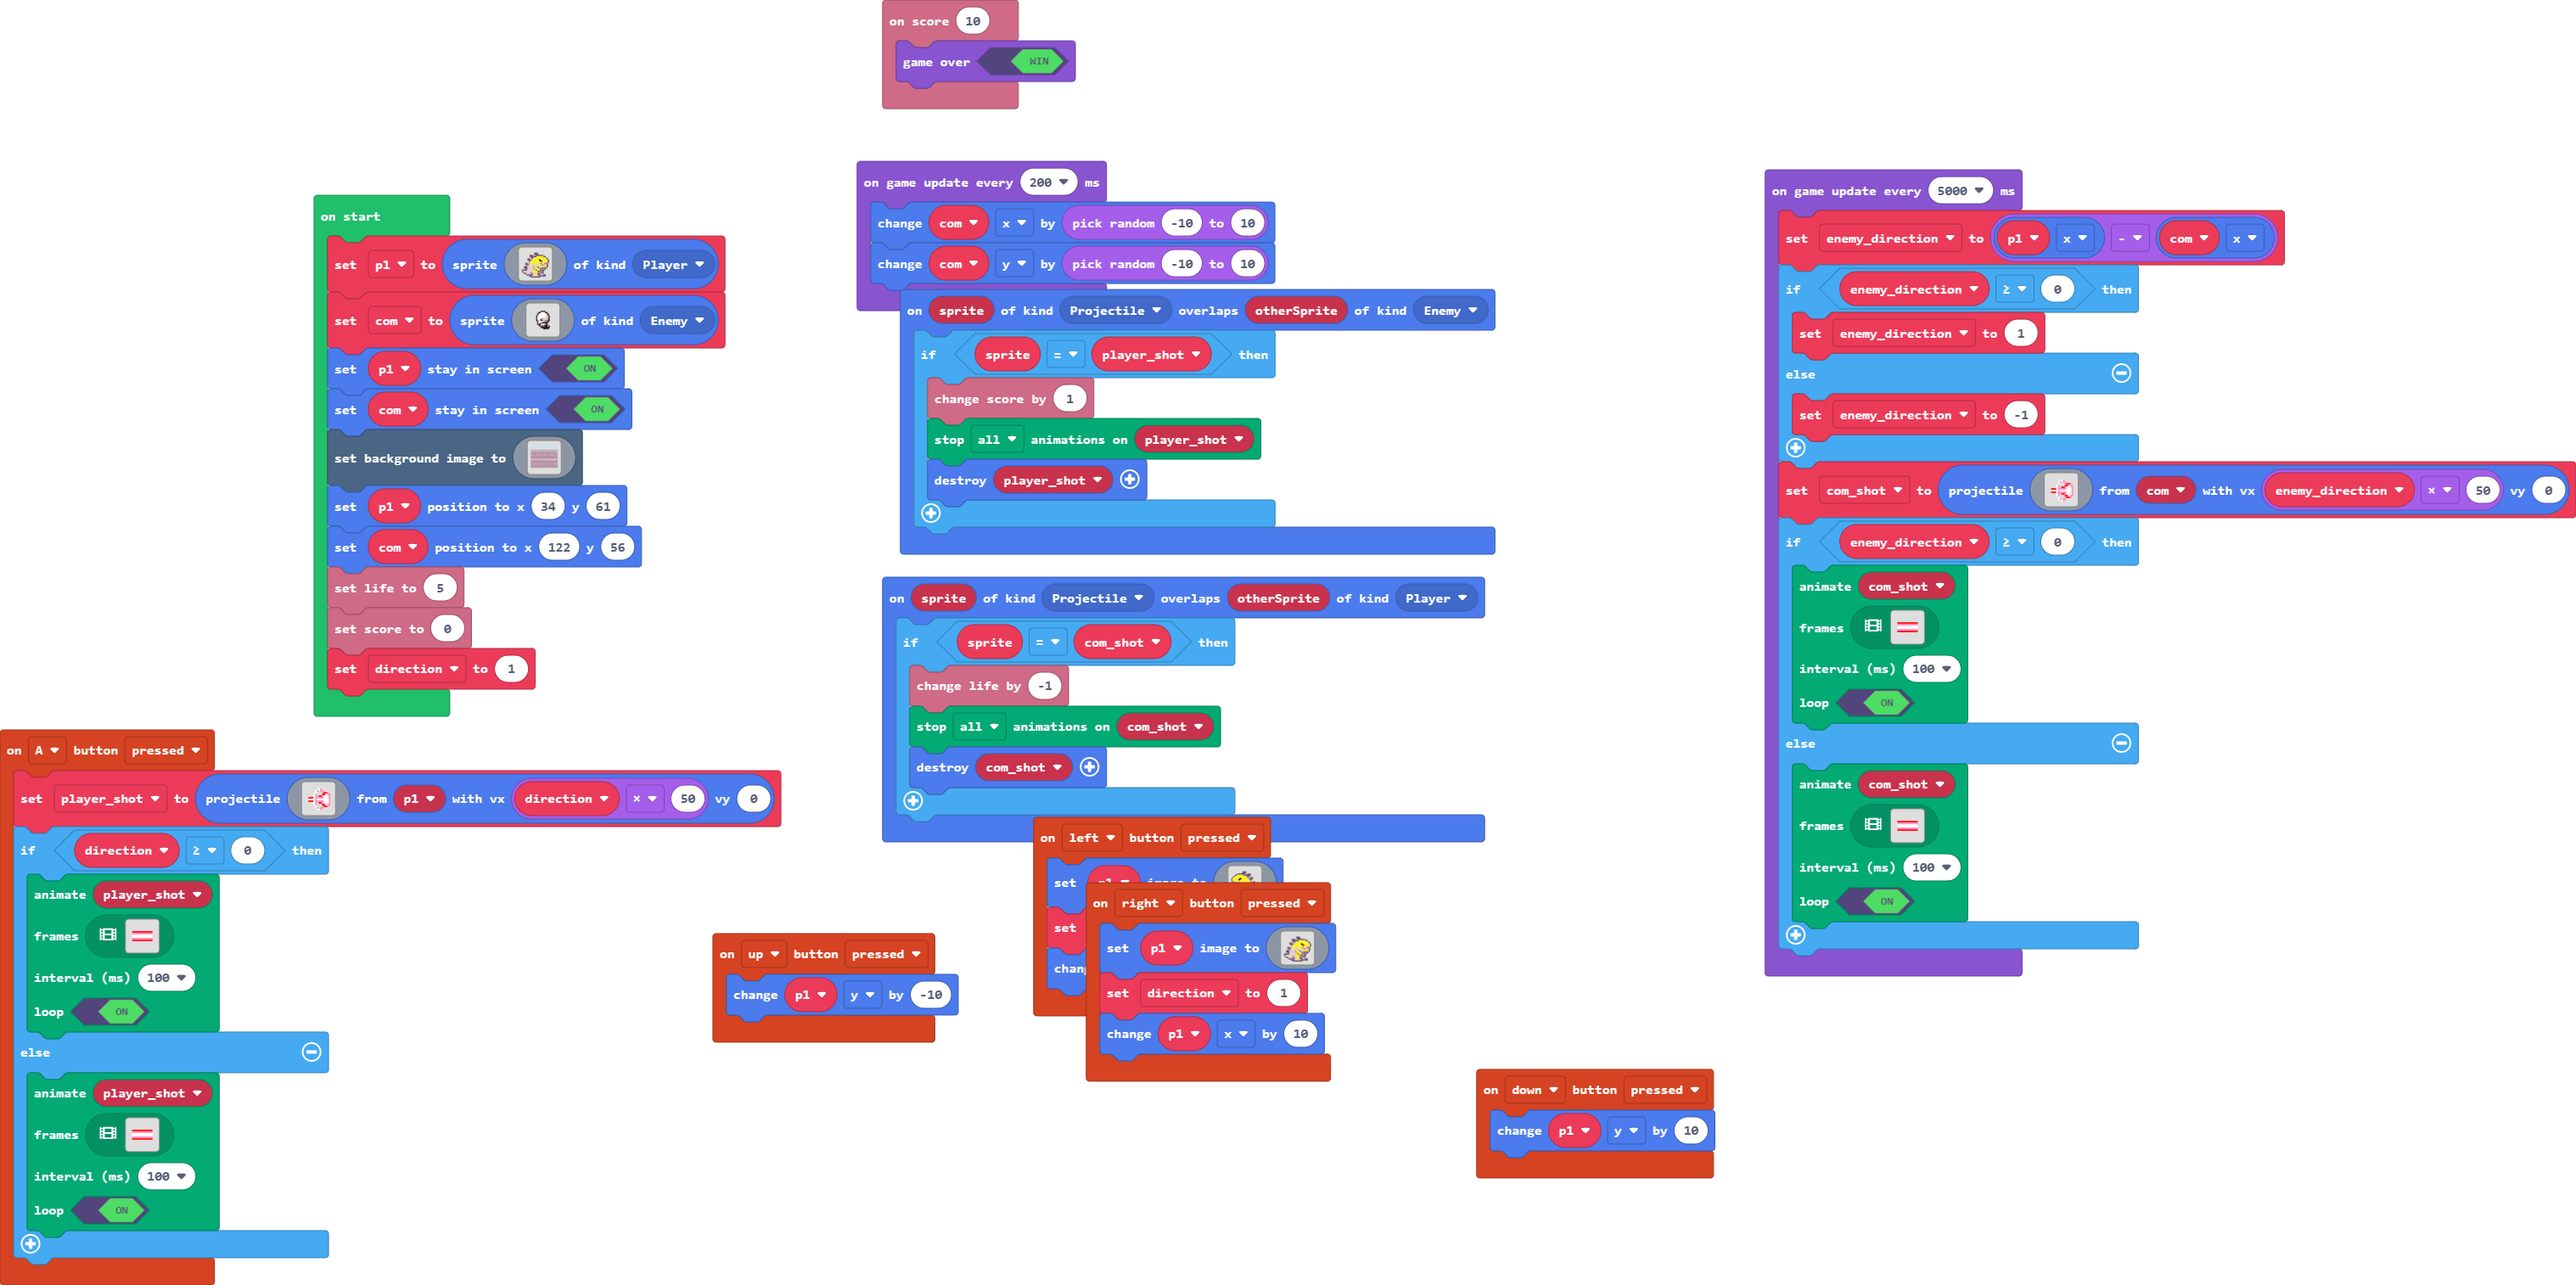
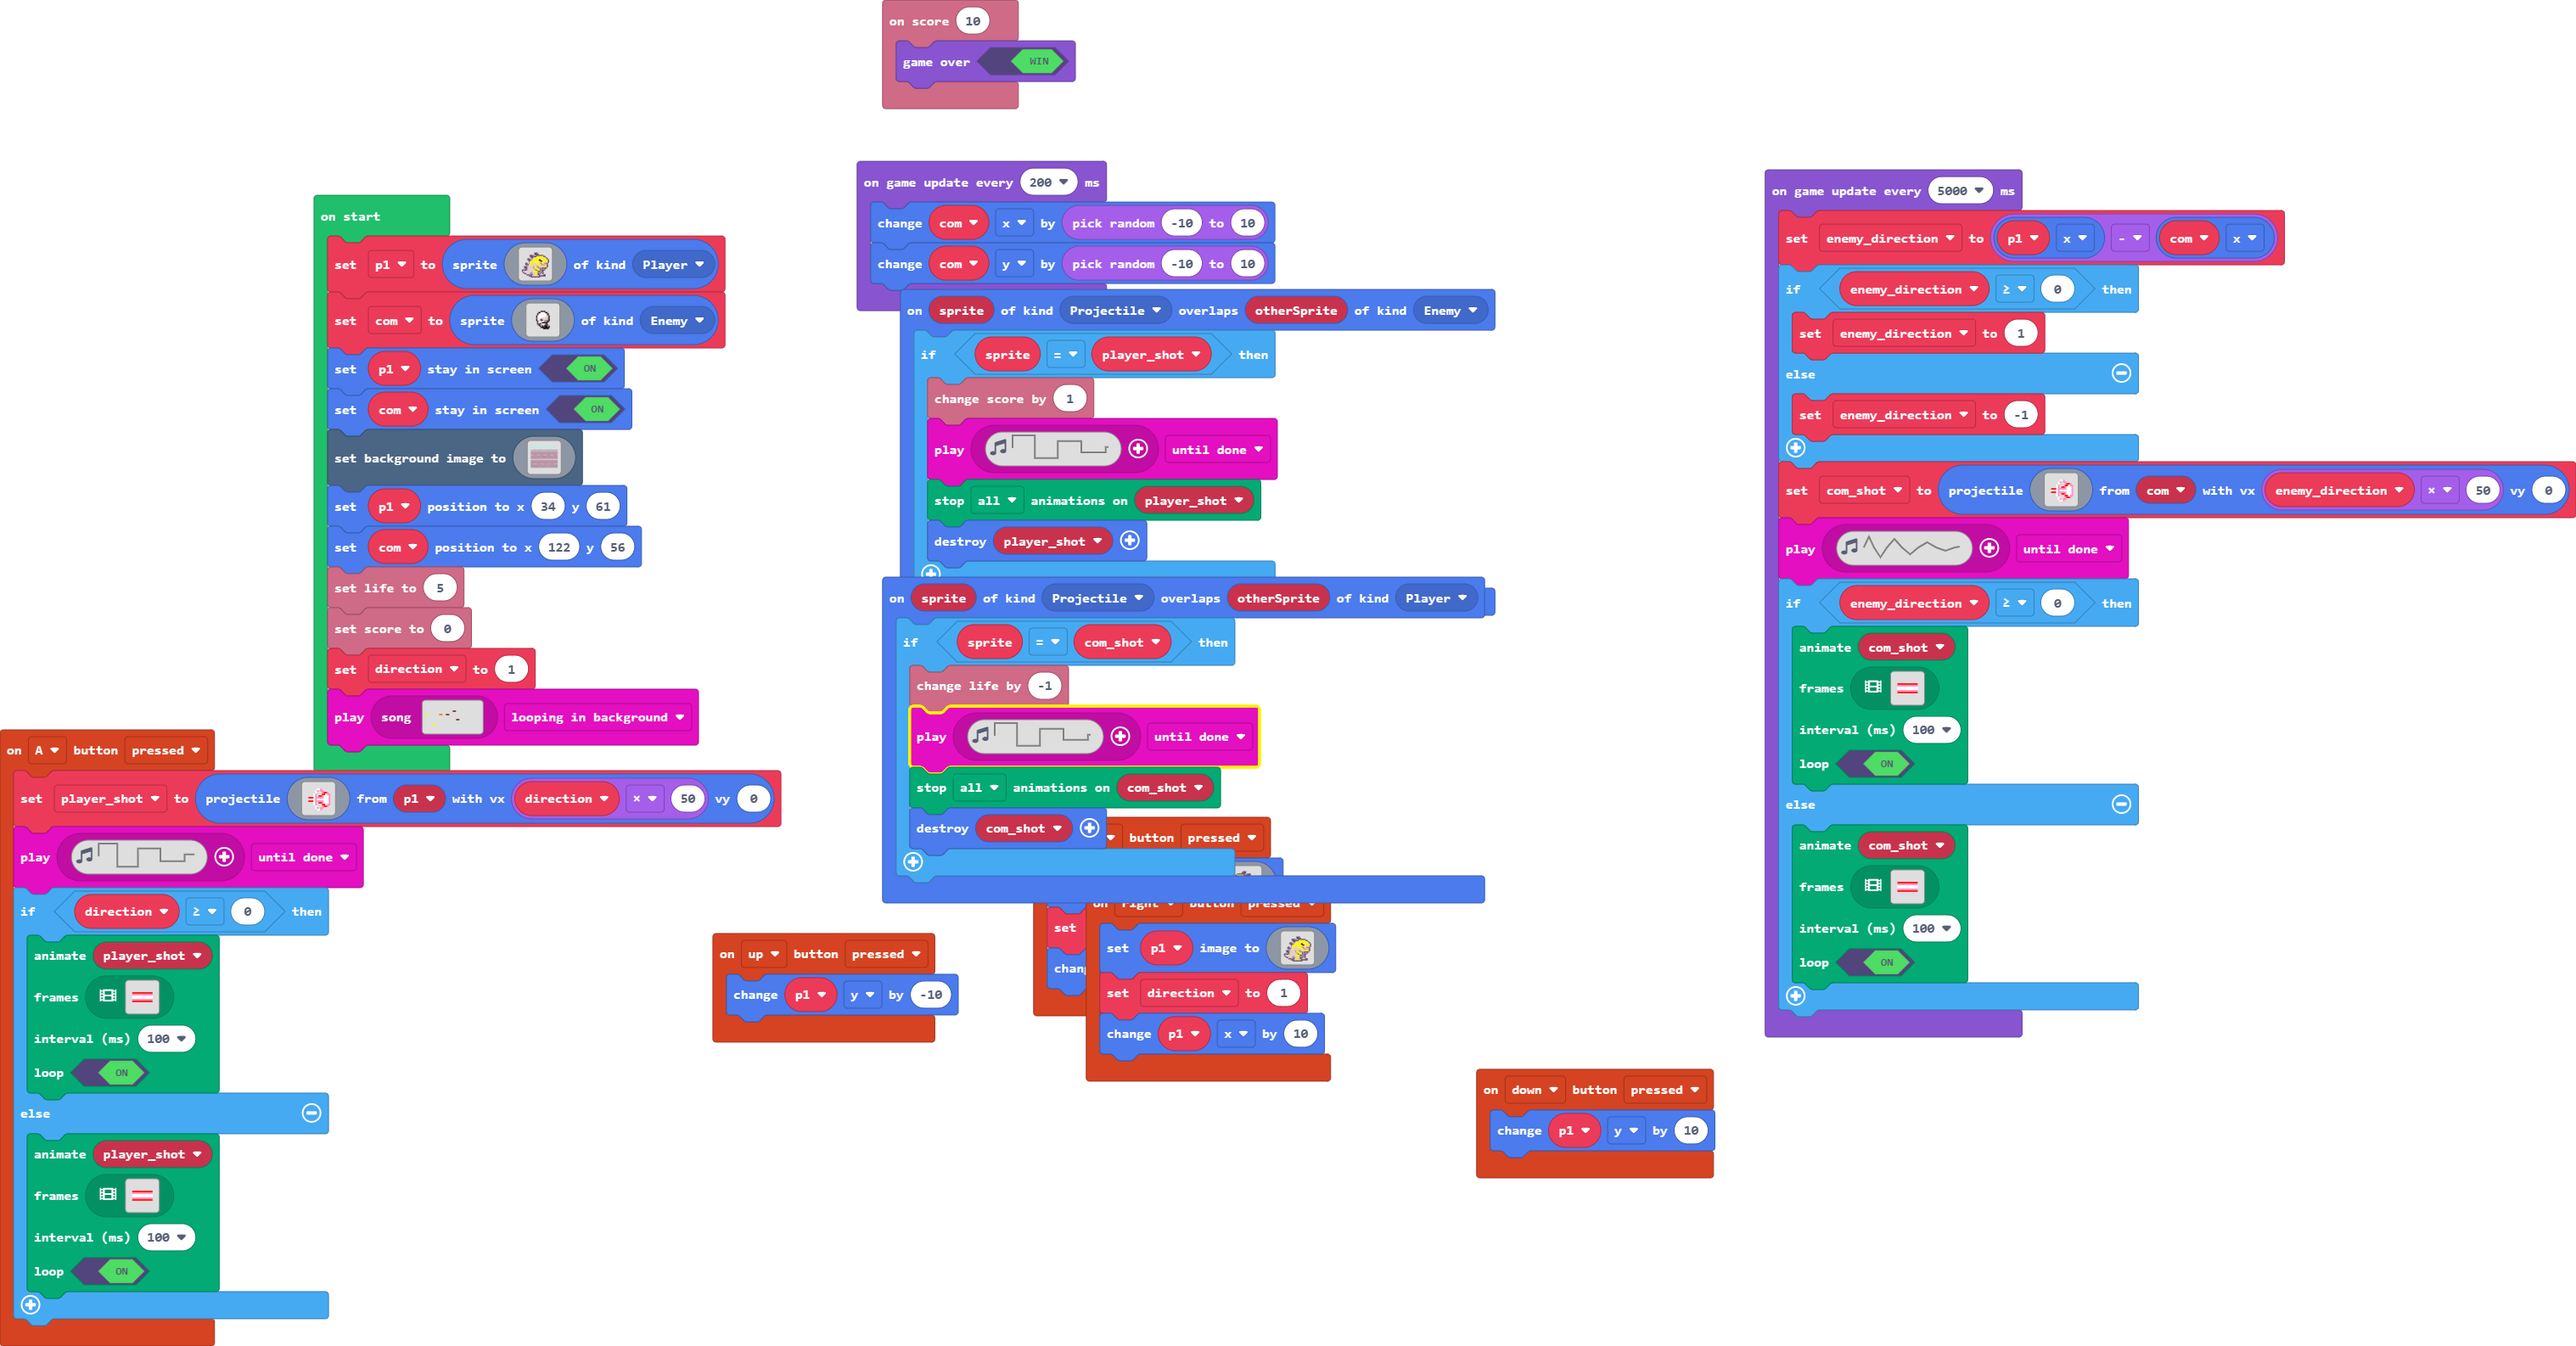
I added new sounds

diff --git a/main.ts b/main.ts
@@ -20,6 +20,7 @@ controller.A.onEvent(ControllerButtonEvent.Pressed, function () {
         . . . . . . . 1 1 3 . . . . . . 
         . . . . . . . . . . . . . . . . 
         `, p1, direction * 50, 0)
+    music.play(music.createSoundEffect(WaveShape.Square, 1600, 1, 255, 0, 300, SoundExpressionEffect.Vibrato, InterpolationCurve.Curve), music.PlaybackMode.UntilDone)
     if (direction >= 0) {
         animation.runImageAnimation(
         player_shot,
@@ -141,6 +142,7 @@ controller.A.onEvent(ControllerButtonEvent.Pressed, function () {
 sprites.onOverlap(SpriteKind.Projectile, SpriteKind.Player, function (sprite, otherSprite) {
     if (sprite == com_shot) {
         info.changeLifeBy(-1)
+        music.play(music.createSoundEffect(WaveShape.Square, 764, 1, 255, 0, 211, SoundExpressionEffect.Warble, InterpolationCurve.Linear), music.PlaybackMode.UntilDone)
         animation.stopAnimation(animation.AnimationTypes.All, com_shot)
         sprites.destroy(com_shot)
     }
@@ -164,6 +166,7 @@ controller.down.onEvent(ControllerButtonEvent.Pressed, function () {
 sprites.onOverlap(SpriteKind.Projectile, SpriteKind.Enemy, function (sprite, otherSprite) {
     if (sprite == player_shot) {
         info.changeScoreBy(1)
+        music.play(music.createSoundEffect(WaveShape.Square, 764, 1, 255, 0, 211, SoundExpressionEffect.Warble, InterpolationCurve.Linear), music.PlaybackMode.UntilDone)
         animation.stopAnimation(animation.AnimationTypes.All, player_shot)
         sprites.destroy(player_shot)
     }
@@ -329,6 +332,7 @@ com.setPosition(122, 56)
 info.setLife(5)
 info.setScore(0)
 direction = 1
[1 lines of base64/hex data omitted]
 game.onUpdateInterval(5000, function () {
     enemy_direction = p1.x - com.x
     if (enemy_direction >= 0) {
@@ -354,6 +358,7 @@ game.onUpdateInterval(5000, function () {
         . . . . . . . 1 1 3 . . . . . . 
         . . . . . . . . . . . . . . . . 
         `, com, enemy_direction * 50, 0)
+    music.play(music.createSoundEffect(WaveShape.Triangle, 3597, 1279, 217, 8, 300, SoundExpressionEffect.Warble, InterpolationCurve.Logarithmic), music.PlaybackMode.UntilDone)
     if (enemy_direction >= 0) {
         animation.runImageAnimation(
         com_shot,
